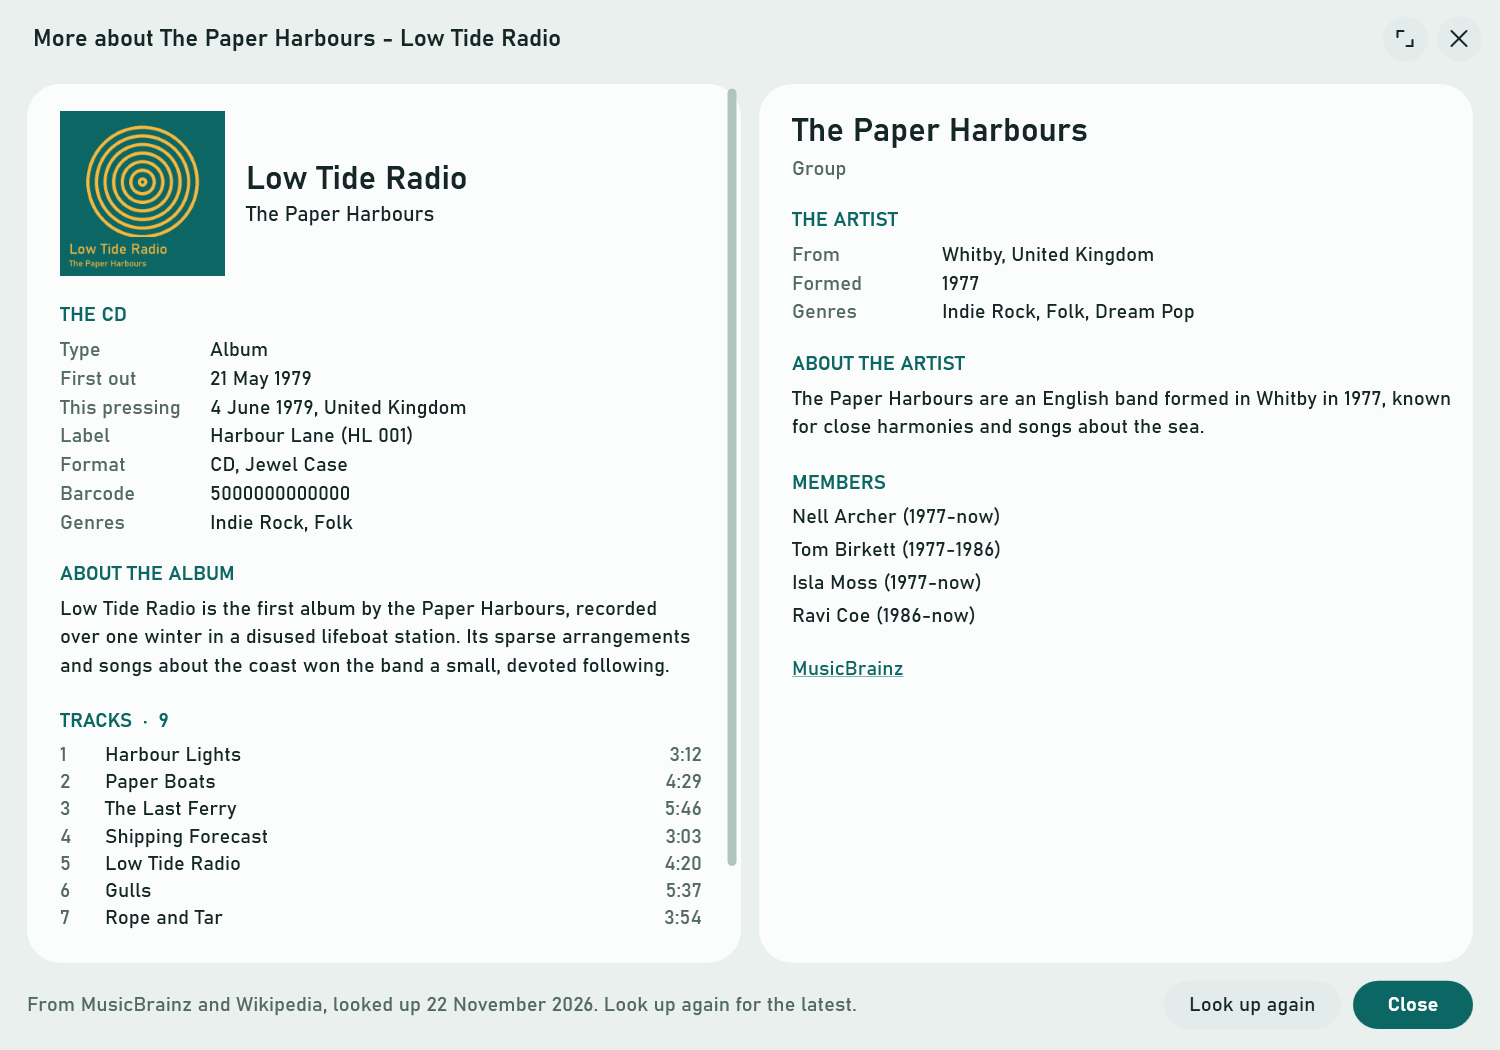
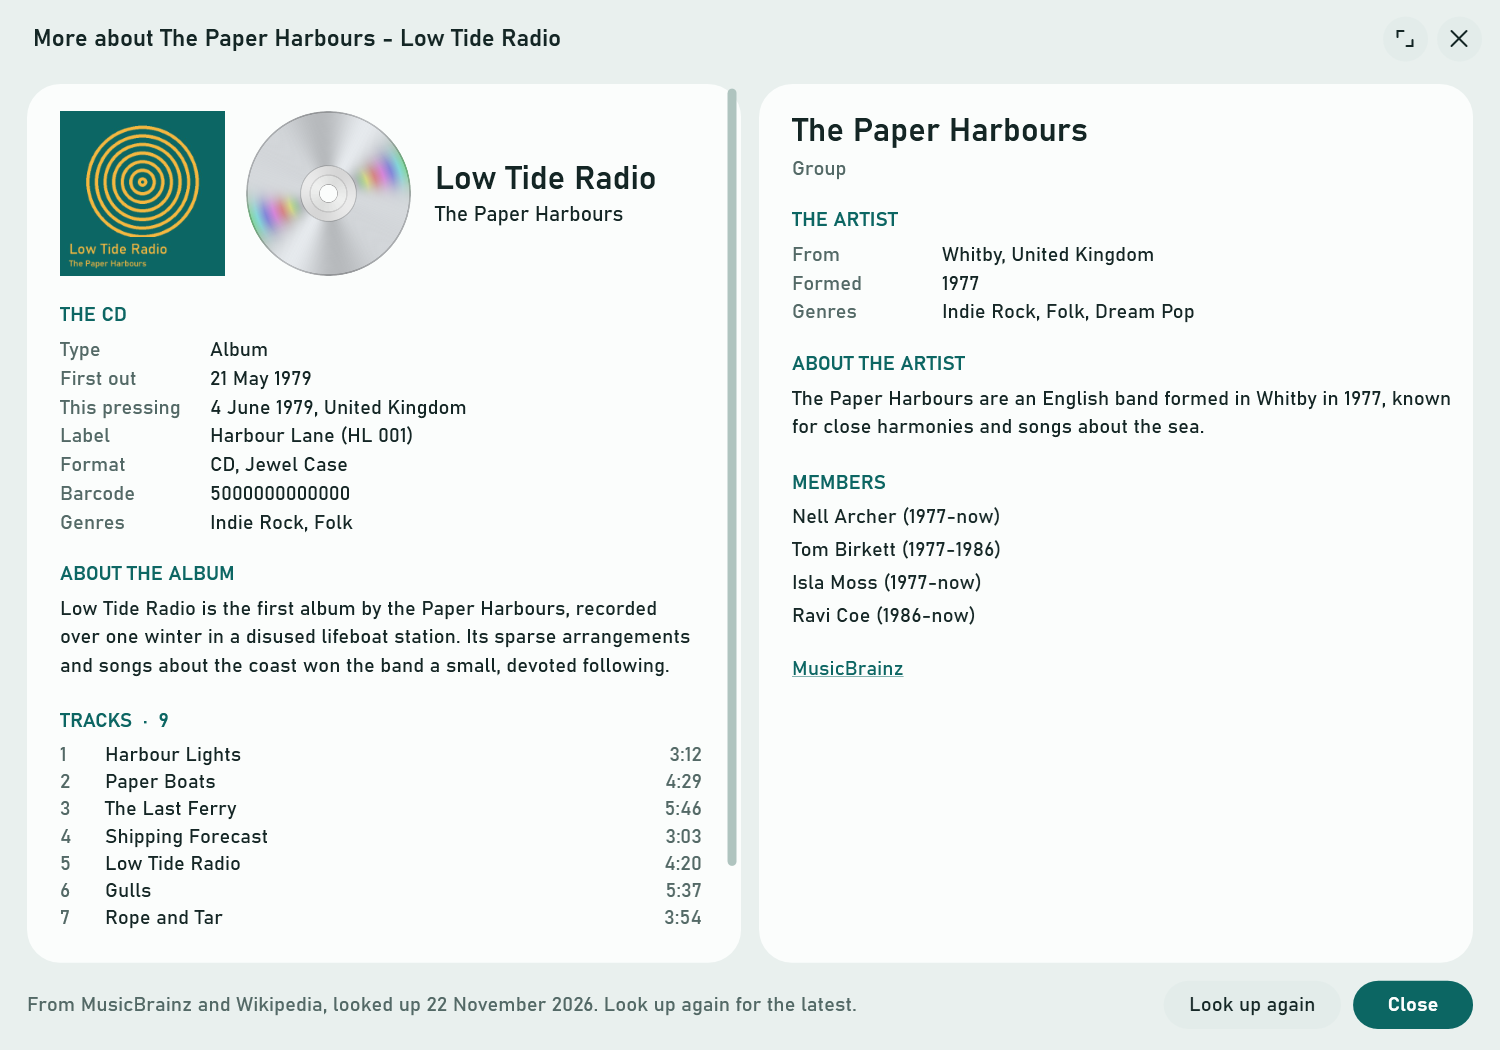
CD Catalogue v1.02: All artists, and the CD's label on the disc
Artists now starts on All artists at the top of the list: every CD in artist order ("The" skipped,
no artist last) and then by year, with the artist under each cover. Picking an artist works as before.
The disc beside the cover shows the CD's own label when the Cover Art Archive has a photo of it
(from its own version, or another with the same barcode), else a plain blank CD. CDs are checked
in the background, and ones with no photo again a week later. More about the CD and artist shows
the disc too, and the version picker's Page button is now See on MusicBrainz.

Changed region(s): [[0.1533, 0.0914, 0.4293, 0.2743]]

diff --git a/README.md b/README.md
@@ -6,7 +6,7 @@
 
 A searchable list of your CDs, with artist, album, year and cover.
 
-![Version](https://img.shields.io/badge/version-v1.01-blue) ![Platform](https://img.shields.io/badge/platform-Windows-0078D6) ![PowerShell](https://img.shields.io/badge/PowerShell-5.1-5391FE) ![Licence](https://img.shields.io/badge/licence-MIT-green) ![Last commit](https://img.shields.io/github/last-commit/jason4bury/CD-Catalogue)
+![Version](https://img.shields.io/badge/version-v1.02-blue) ![Platform](https://img.shields.io/badge/platform-Windows-0078D6) ![PowerShell](https://img.shields.io/badge/PowerShell-5.1-5391FE) ![Licence](https://img.shields.io/badge/licence-MIT-green) ![Last commit](https://img.shields.io/github/last-commit/jason4bury/CD-Catalogue)
 
 
 ## ✨ Features
@@ -19,9 +19,10 @@ CD Catalogue is a PowerShell/WPF tool that keeps a searchable list of your physi
 - **Which version is yours?**: MusicBrainz often has several versions of a CD with one barcode (other countries, reissues, labels, box sets). When it does, the app asks which you have once the look-ups finish, showing each one's cover, date, country, label, catalogue number, format and tracks. **Choose the version** shows them again at any time.
 - **MusicBrainz account (optional)**: look-ups never need one. With one, **Add to MusicBrainz** opens MusicBrainz's Add release page with a not-found CD's barcode filled in, and **MB collection** sends your CDs to a collection in your account (sign in once with an application you register in your MusicBrainz account; the sign-in is kept encrypted for your Windows account, and your password is never seen by the app).
 - **CDs with no barcode**: Add by hand, with Look up by artist and album.
-- **Artists, like a discography**: the **Artists** view lists every artist with how many CDs you have and the years they span; pick one to see all their albums together, oldest first, with their genres and labels.
+- **Artists, like a discography**: the **Artists** view lists every artist with how many CDs you have and the years they span, starting on **All artists** (every CD in artist order); pick one to see all their albums together, oldest first, with their genres and labels.
 - **MB or Hand**: a mark on every cover and list row shows whether the CD's details came from MusicBrainz (**MB**) or were entered by hand (**Hand**). The key at the top shows how many of each; click one to show only those CDs. The CSV and HTML report say so too.
 - **Search by field**: search everything, or pick one thing with the button in the search box (artist, album, year, label, genre, barcode or notes). You can also type them and mix them, such as `year:1990-1999 label:"little wheel"`. A year can be one year, a range (1990-1999) or a decade (1990s).
+- **The CD's label**: the disc beside the cover shows a photo of the CD itself when the Cover Art Archive has one.
 - **A wall of covers**: your collection as album art, or as a sortable list, in the app's own teal and amber look with its own window frame.
 - **More about the CD and artist**: the CD's track listing with times, when the album first came out, the pressing's label and catalogue number, format, genres and the album's Wikipedia introduction; beside it the artist: where they're from, when they formed or were born, genres, the band's members with their years, the Wikipedia introduction, and links to MusicBrainz, Wikipedia, Discogs and their own site. It's kept, so it opens at once next time.
 - **Export CSV**: saves the list (or what your search found) as a CSV file for Excel and other spreadsheets.
@@ -47,7 +48,7 @@ CD Catalogue is a PowerShell/WPF tool that keeps a searchable list of your physi
 
 ## 📦 Installation
 
-1. Download `CD-Catalogue-v1.01.zip` from the [latest release](../../releases/latest) and unzip it wherever you like to keep it.
+1. Download `CD-Catalogue-v1.02.zip` from the [latest release](../../releases/latest) and unzip it wherever you like to keep it.
 2. Double-click **CD Catalogue.cmd** in the unzipped folder. It makes a **CD Catalogue** shortcut there and in the Start menu, and starts the tool. From then on, use the shortcut, the Start menu or a pinned taskbar button.
 
 Nothing is installed and no Windows settings are changed. The shortcut runs the script with PowerShell's execution policy bypassed for that run only.

diff --git a/CHANGELOG.md b/CHANGELOG.md
@@ -6,6 +6,19 @@ All notable changes to this project are documented here. The format follows
 
 ## [Unreleased]
 
+## [1.02] - 2026-11-23
+### Changed
+- **Artists** opens on **All artists** at the top of the list: every CD, in artist order ("The" skipped) and then
+  by year, with the artist under each cover. Pick an artist to see just theirs, as before.
+- In **Which version is yours?** the **Page** button is now **See on MusicBrainz**.
+
+### Added
+- **The CD's label on the disc**: when the Cover Art Archive has a photo of the disc itself (its "Medium"
+  picture), the disc beside the cover shows it; otherwise it's a plain blank CD (it used to show the cover).
+  Each CD from MusicBrainz is checked in the background, trying the other versions with the same barcode when
+  its own has no disc photo, and a CD with none is checked again a week later.
+- **More about the CD and artist** shows the disc (its label, or a blank CD) beside the cover.
+
 ## [1.01] - 2026-11-23
 ### Added
 - **MB or Hand**: every cover and list row has a mark showing where its details came from: **MB** (MusicBrainz,
